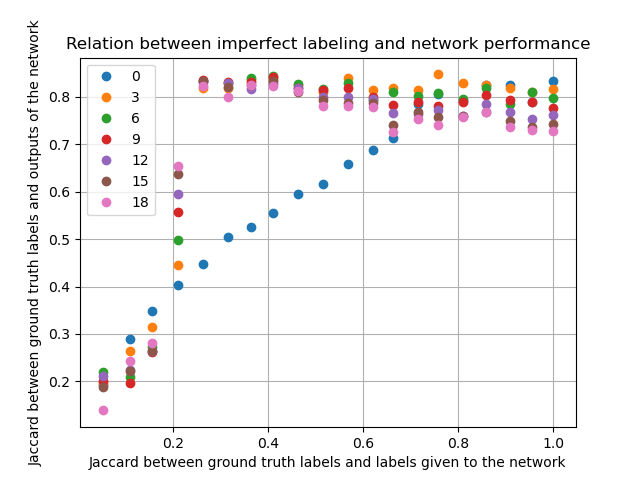
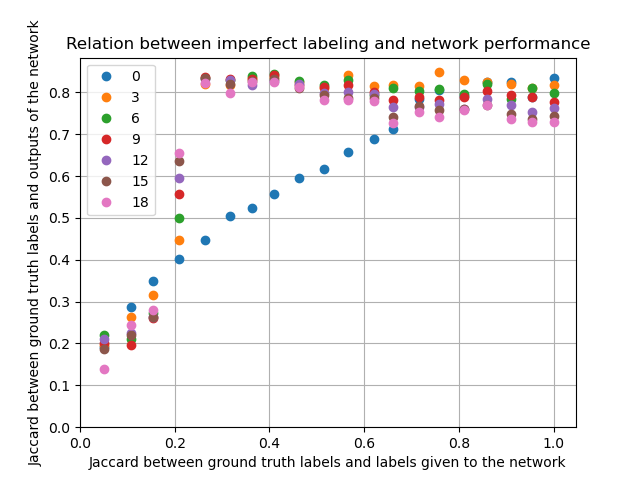
fixed graph

diff --git a/graph.py b/graph.py
@@ -56,6 +56,8 @@ elif deg == 2:
 plt.xlabel('Jaccard between ground truth labels and labels given to the network')
 plt.ylabel('Jaccard between ground truth labels and outputs of the network')
 plt.title('Relation between imperfect labeling and network performance')
+plt.xlim(0)
+plt.ylim(0)
 plt.legend()
 plt.grid()
 plt.savefig(os.path.join('images','graph_'+train_type+'.png'))
